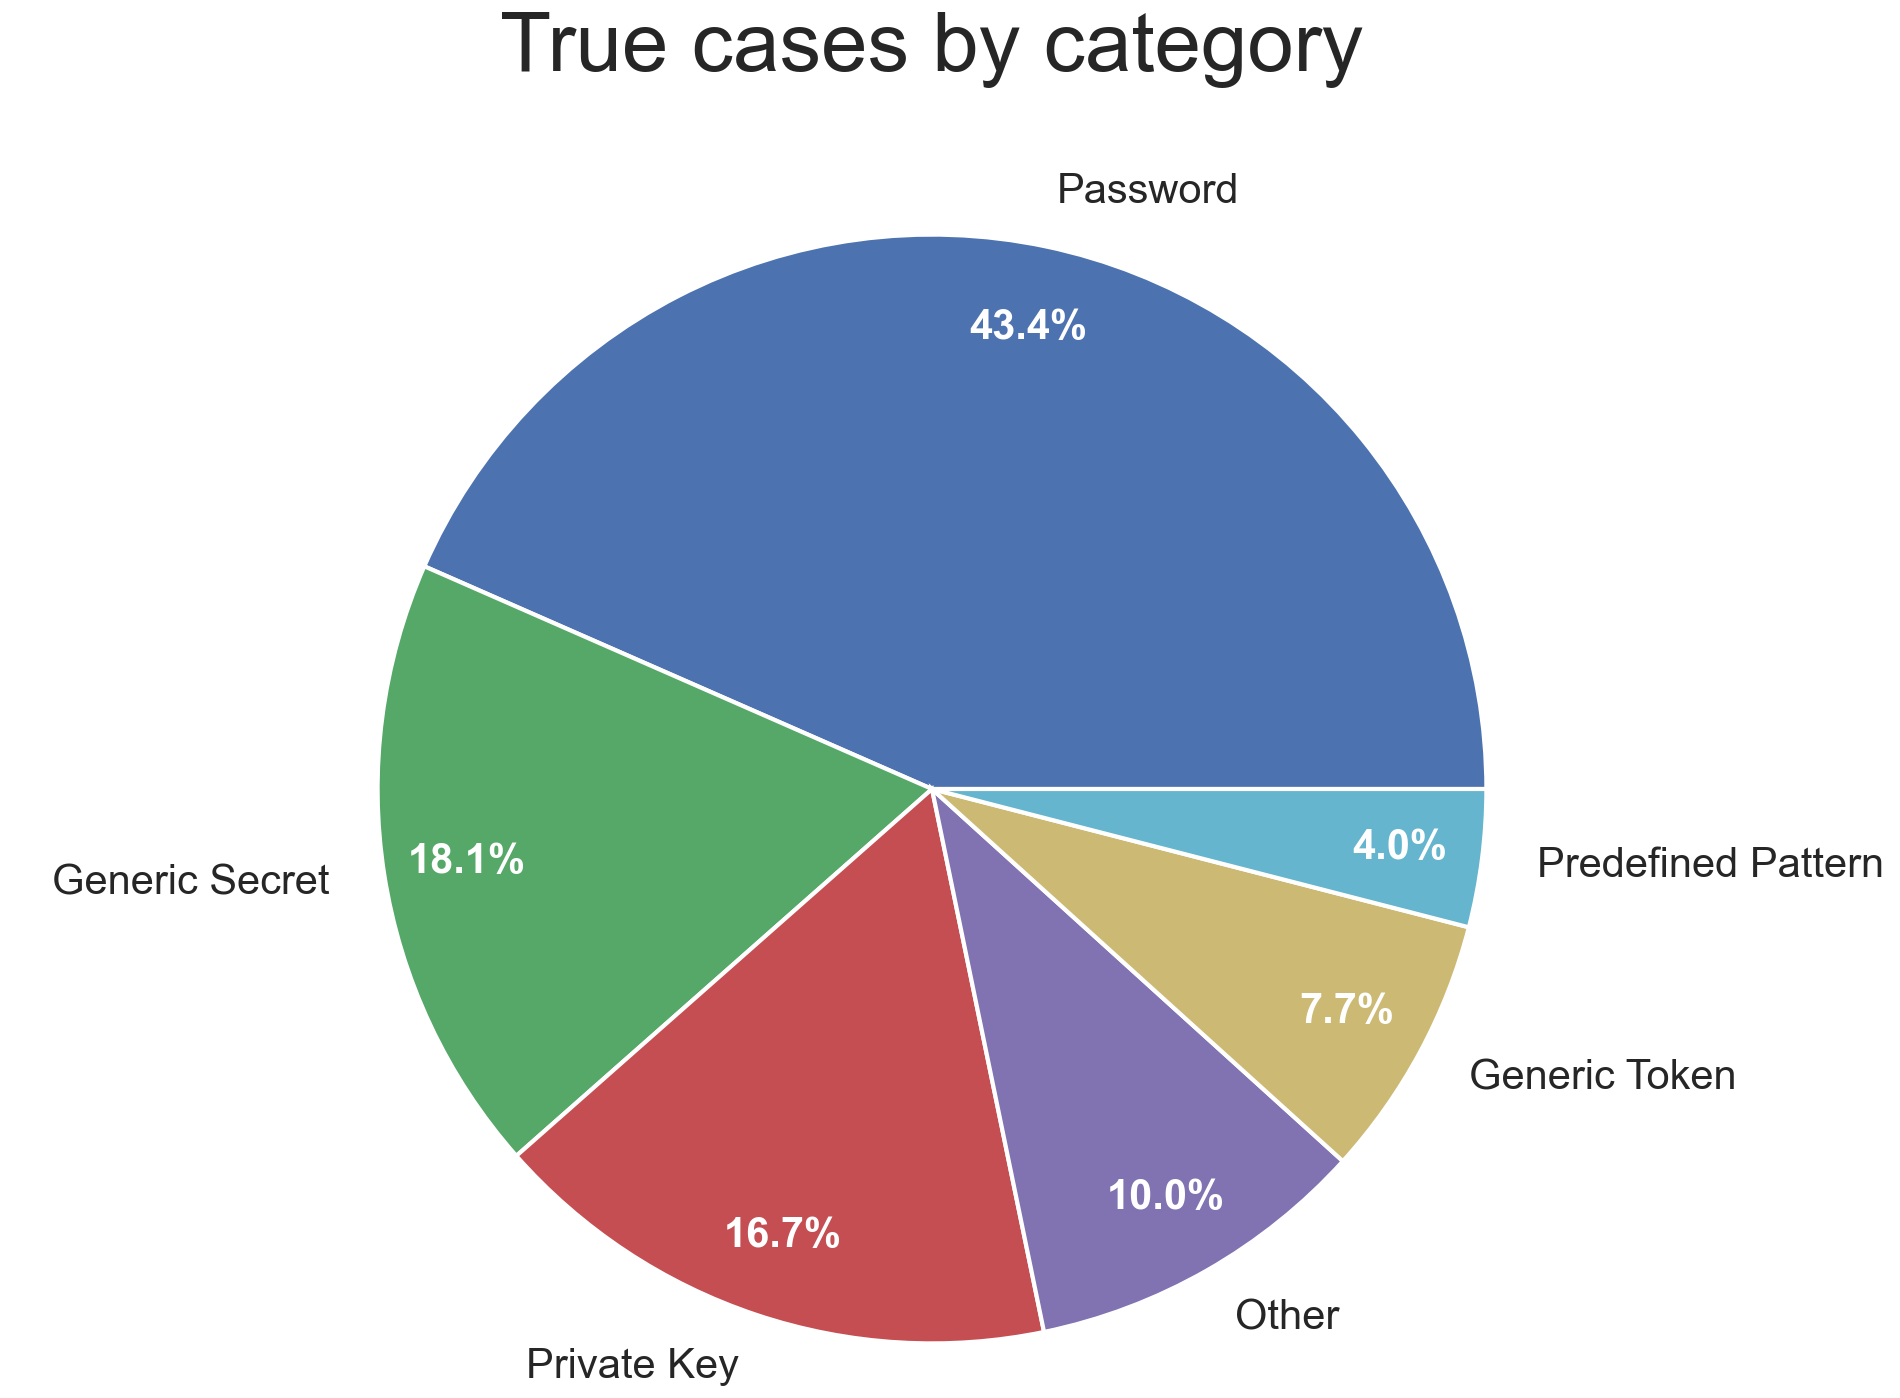
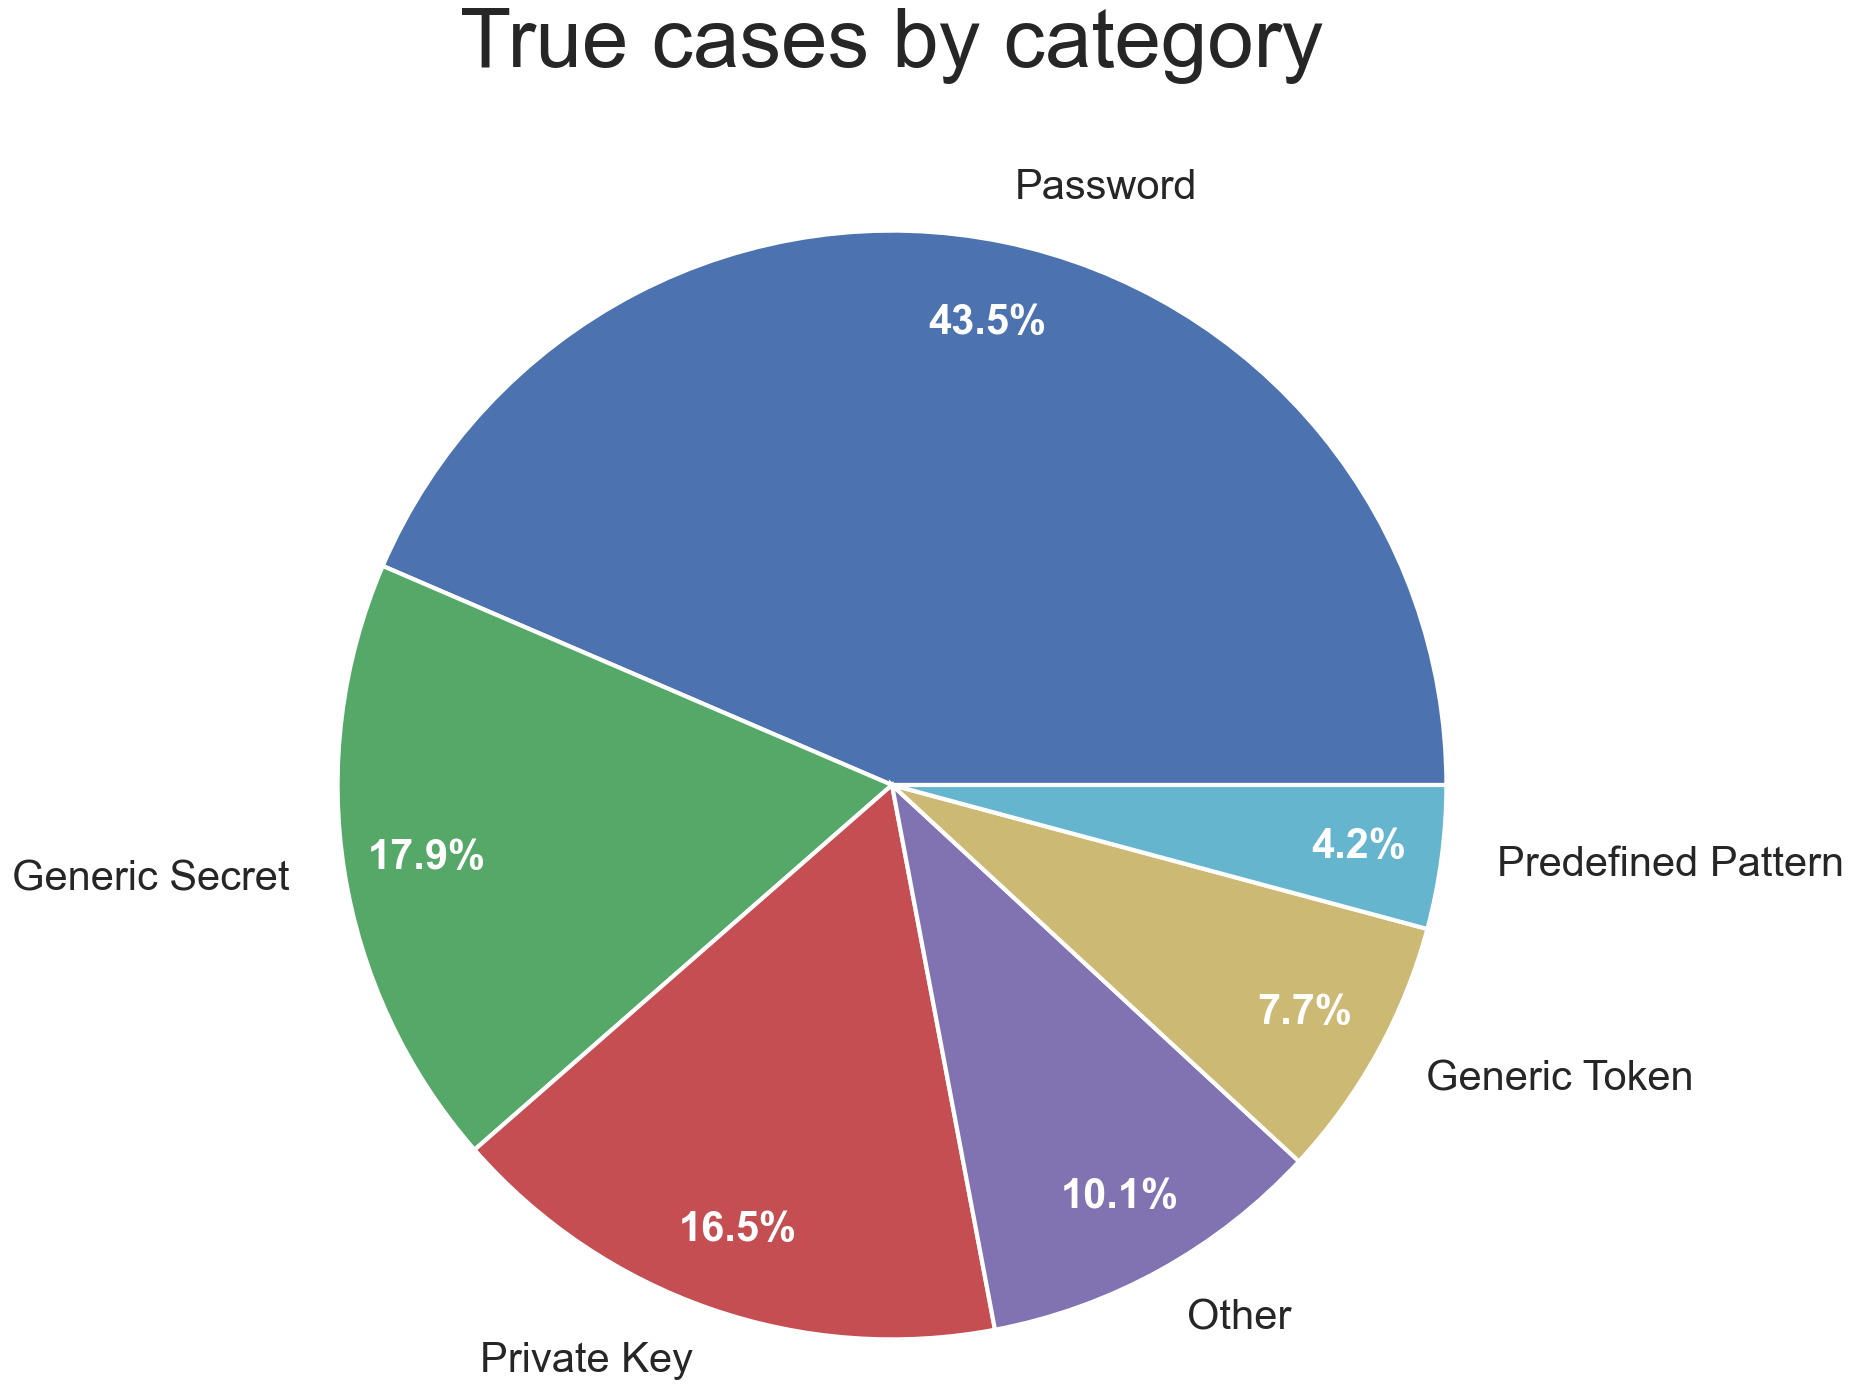
Update stats in README.md, add new images

diff --git a/README.md b/README.md
@@ -56,7 +56,7 @@ python download_data.py --data_dir data
 ### Data Statistics
 
 Dataset consists of 19,459,282 lines of code extracted from 11,408 files in 297 different repositories. 
-Total 59,907 lines of code are labeled, of which 5,882 (9.82%) labeled as True. 
+Total 59,907 lines of code are labeled, of which 6,002 (10.01%) labeled as True. 
 Labeled data divided into 8 major categories according to their properties.
 
 ##### Lines of code by language
@@ -64,18 +64,18 @@ Labeled data divided into 8 major categories according to their properties.
 |Language|Total|Labeled|True|Language|Total|Labeled|True|
 |--------|--------|--------|--------|--------|--------|--------|--------|
 |Text|85,144|8,718|1,634|Config|7,920|308|68|
-|JavaScript|742,704|4,478|1,339|No Extension|48,645|991|55|
-|Python|351,494|4,996|704|Shell|42,019|1,207|52|
-|Go|838,816|5,814|696|Java Properties|1,878|111|38|
-|YAML|74,643|2,521|479|AsciiDoc|27,803|418|37|
-|Markdown|186,099|3,065|372|XML|57,377|1,312|30|
+|Go|838,816|5,808|690|No Extension|48,645|990|55|
+|Python|351,494|4,969|677|Shell|42,019|1,207|52|
+|YAML|74,643|2,521|479|Java Properties|1,878|111|38|
+|JavaScript|742,704|3,586|448|AsciiDoc|27,803|418|37|
+|Markdown|186,099|3,064|371|XML|57,377|1,312|30|
 |Ruby|186,196|4,006|327|Haskell|5,127|67|30|
-|Java|178,326|1,614|271|SQLPL|16,808|594|26|
-|Key|8,803|598|227|reStructuredText|38,267|401|21|
-|PHP|113,865|1,767|209|Smalltalk|92,284|777|18|
-|JSON|15,036,863|9,304|194|TOML|2,566|235|17|
-|TypeScript|151,832|2,357|155|Objective-C|19,840|115|14|
-|Other|1,143,963|5,637|235|
+|JSON|15,036,863|9,303|193|SQLPL|16,808|594|26|
+|Java|178,326|1,435|169|reStructuredText|38,267|401|21|
+|TypeScript|151,832|2,357|155|Smalltalk|92,284|777|18|
+|Key|8,803|309|115|TOML|2,566|235|17|
+|PHP|113,865|1,660|104|Objective-C|19,840|115|14|
+|Other|1,143,963|5,636|234|
 
 <img src="images/Language_true.png" width="450"/>
 
@@ -83,14 +83,14 @@ Labeled data divided into 8 major categories according to their properties.
 
 |[Category](#category)|True credentials|
 |--------|--------|
-|Password                    |  2,554|
-|Generic Secret              |  1,064|
-|Private Key                 |   984|
-|Generic Token               |   453|
-|Predefined Pattern          |   236|
-|Authentication Key & Token  |    47|
-|Seed, Salt, Nonce           |    35|
-|Other                       |   509|
+|Password                    |  2,613|
+|Generic Secret              |  1,074|
+|Private Key                 |   993|
+|Generic Token               |   462|
+|Predefined Pattern          |   251|
+|Authentication Key & Token  |    49|
+|Seed, Salt, Nonce           |    40|
+|Other                       |   520|
 
 <img src="images/Category.png" width="520"/>
 
